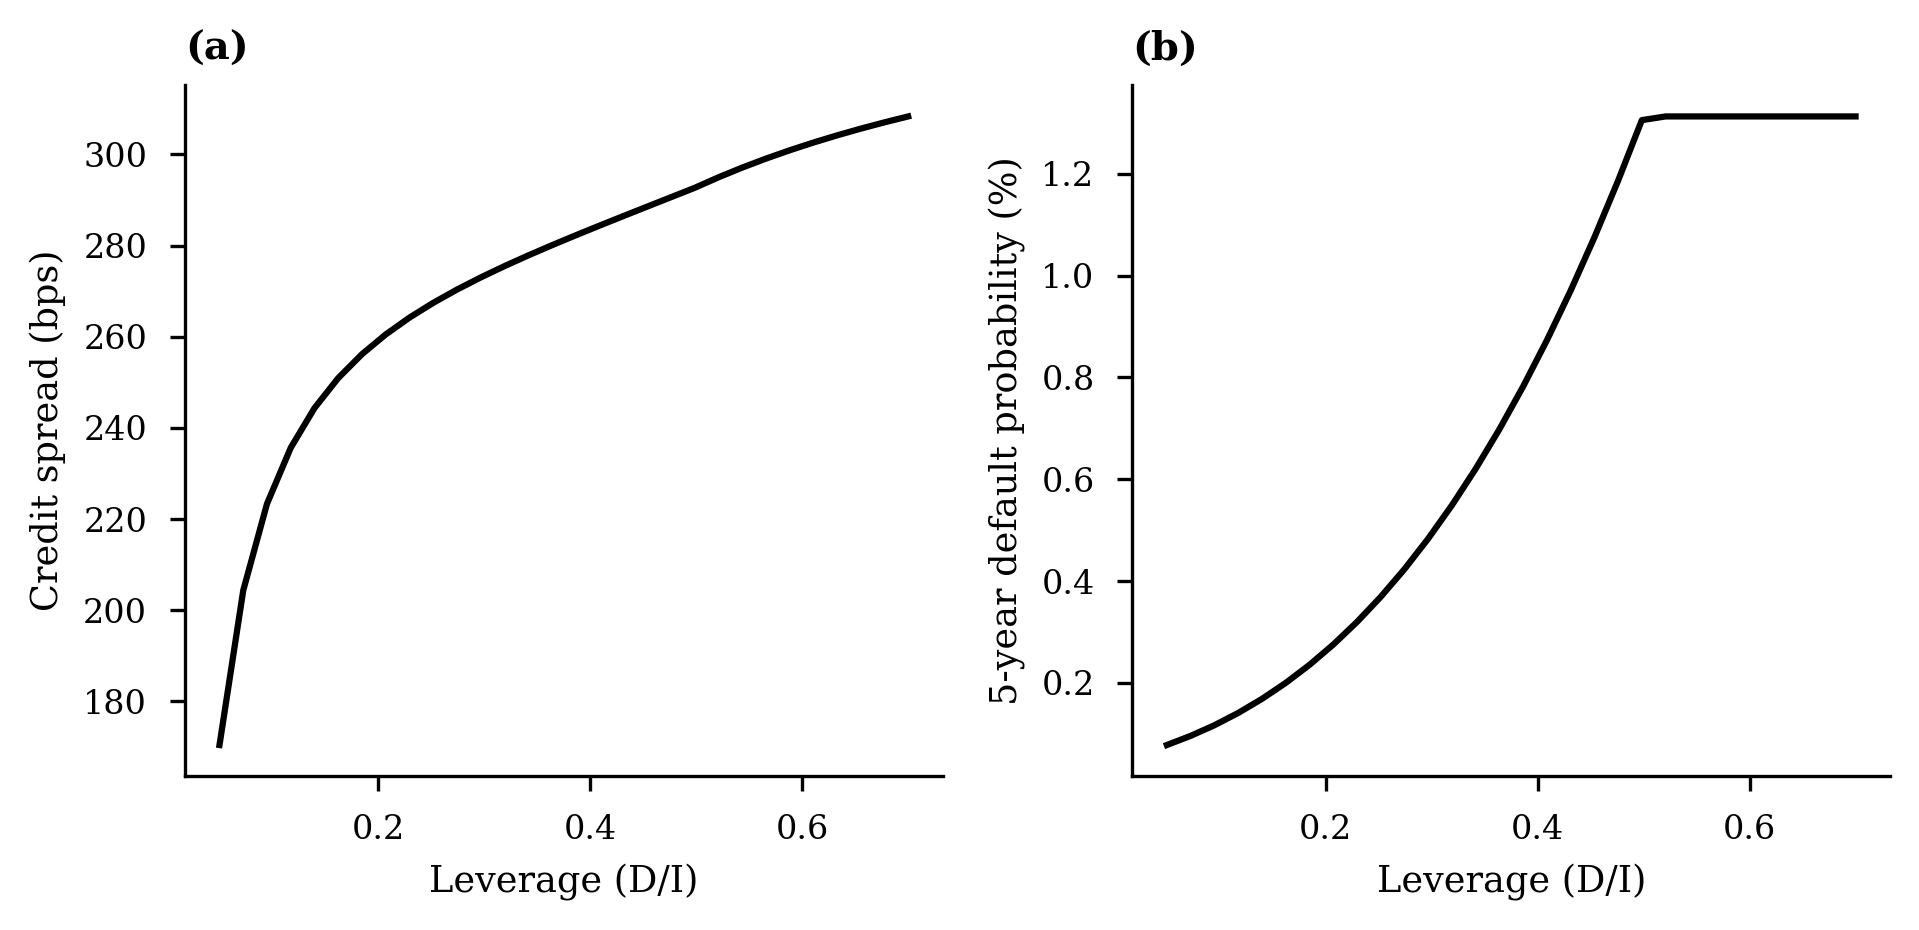
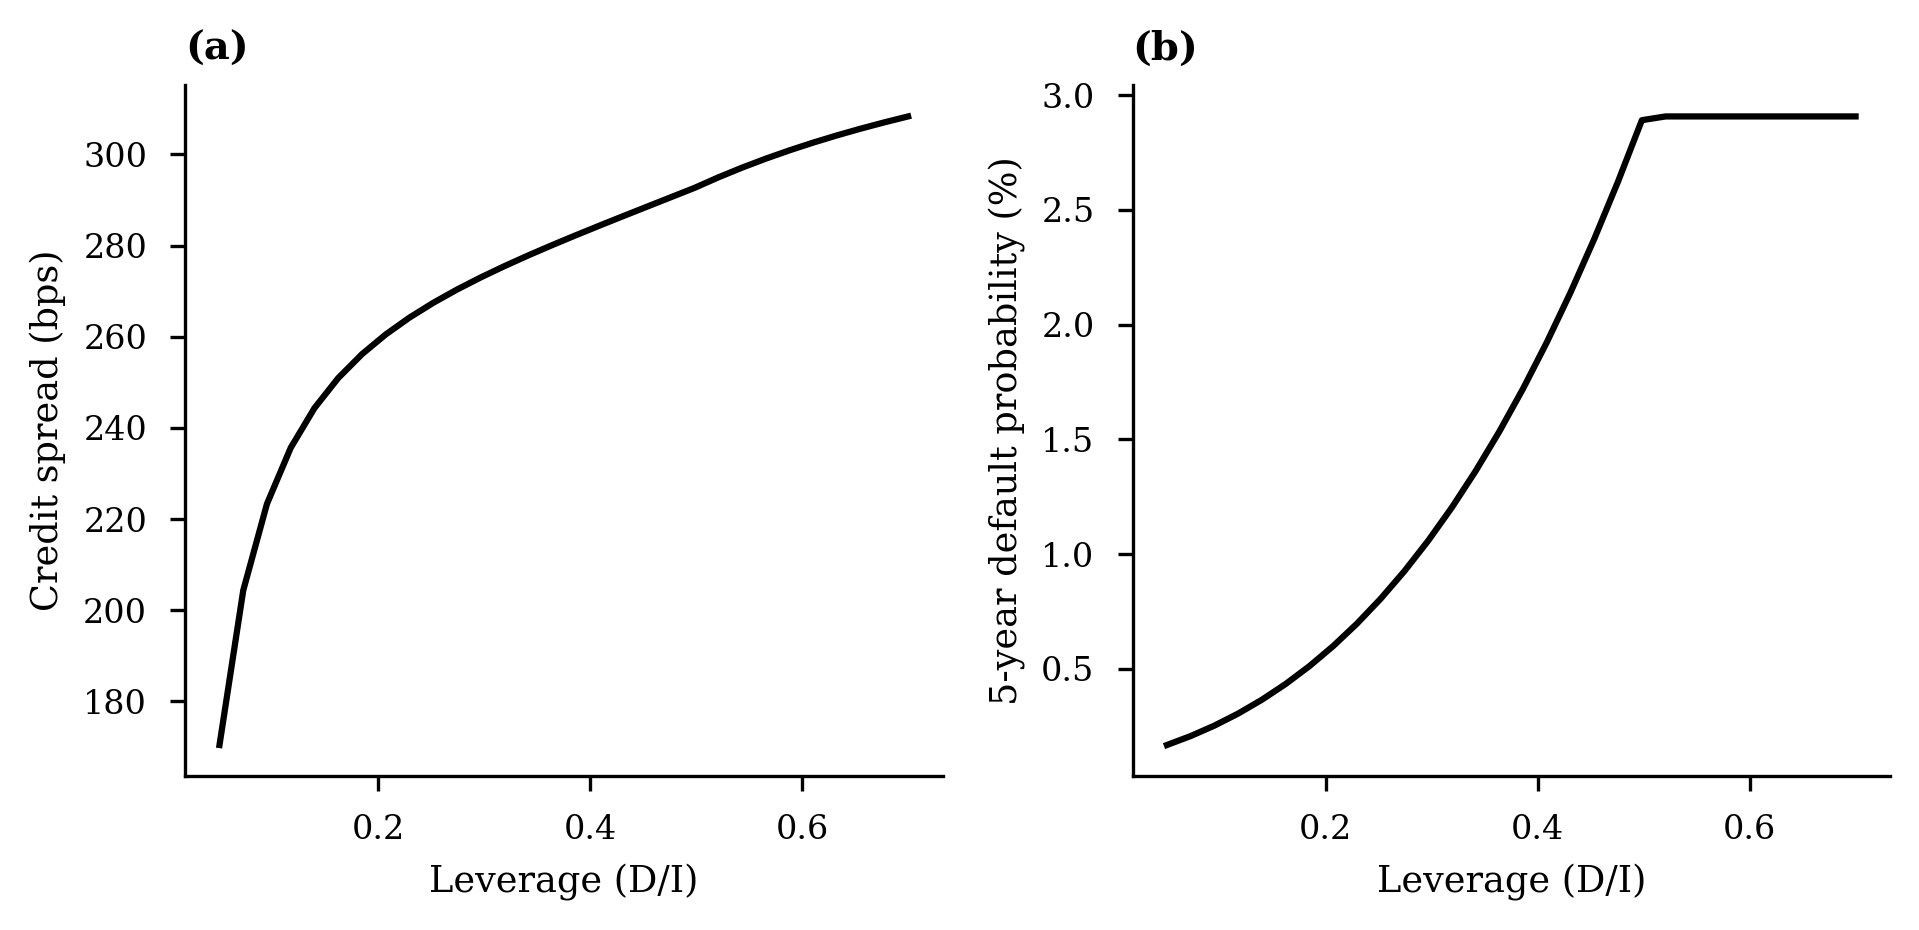
Switch to first-passage barrier default probability
Replace Merton-style terminal approximation with exact first-passage
(barrier hitting) probability under GBM, consistent with the Leland-style
endogenous default mechanism. Update paper text with revised default
probability figures and regenerate credit risk figure.

Addresses referee report 2.4 (issue #86).

diff --git a/src/ai_lab_investment/models/valuation.py b/src/ai_lab_investment/models/valuation.py
@@ -193,15 +193,24 @@ class ValuationAnalysis:
         mu = p.mu_H if regime == "H" else p.mu_L
         sigma = p.sigma
 
-        # Distance to default (in log space)
-        d2 = (np.log(X_current / X_D) + (mu - 0.5 * sigma**2) * horizon) / (
-            sigma * np.sqrt(horizon)
-        )
-
-        # Normal CDF approximation
+        # First-passage (barrier) probability for GBM hitting X_D
+        # P(min_{0<=t<=T} X_t <= X_D) = N(-d1) + (X_D/X)^{2nu/sigma^2} N(-d2)
+        # where nu = mu - sigma^2/2, d1 = [ln(X/X_D) + nu*T]/(sigma*sqrt(T)),
+        # d2 = [ln(X/X_D) - nu*T]/(sigma*sqrt(T))
         from scipy.stats import norm
 
-        return float(norm.cdf(-d2))
+        nu = mu - 0.5 * sigma**2
+        sqrt_T = sigma * np.sqrt(horizon)
+        log_ratio = np.log(X_current / X_D)
+
+        d1 = (log_ratio + nu * horizon) / sqrt_T
+        d2 = (log_ratio - nu * horizon) / sqrt_T
+
+        prob = norm.cdf(-d1)
+        if sigma > 0:
+            prob += (X_D / X_current) ** (2 * nu / sigma**2) * norm.cdf(-d2)
+
+        return float(np.clip(prob, 0.0, 1.0))
 
     def credit_spread_curve(
         self,

diff --git a/paper/AGENTS.md b/paper/AGENTS.md
@@ -26,5 +26,5 @@ Main entry: `index.qmd` (includes all sections). Sections: `_introduction.qmd`, 
 - Assumption A3: (1−1/β_L⁺)/α ≈ 1.67 ≥ 1 → simplified F_L = C·X^{β_H} valid at baseline
 - φ̲ ≈ 0.18 (faith-based survival threshold), R ≈ 0.22
 - Baseline results: X* ≈ 0.0047, K* ≈ 0.0067, φ* ≈ 0.70 (single-firm); X_F ≈ 0.57, K_F ≈ 1.30, X_P ≈ 0.0082, X_H^mono ≈ 0.0163 (duopoly, ℓ=0)
-- Credit risk: spreads 170/259/308 bps at ℓ=0.05/0.20/0.70; 5-yr default 0.08%/0.28%/1.31%
+- Credit risk: spreads 170/259/308 bps at ℓ=0.05/0.20/0.70; 5-yr default (first-passage) 0.50%/0.56%/0.79%
 - All results verified numerically; see `notebooks/model_derivation.ipynb` for SymPy derivations
